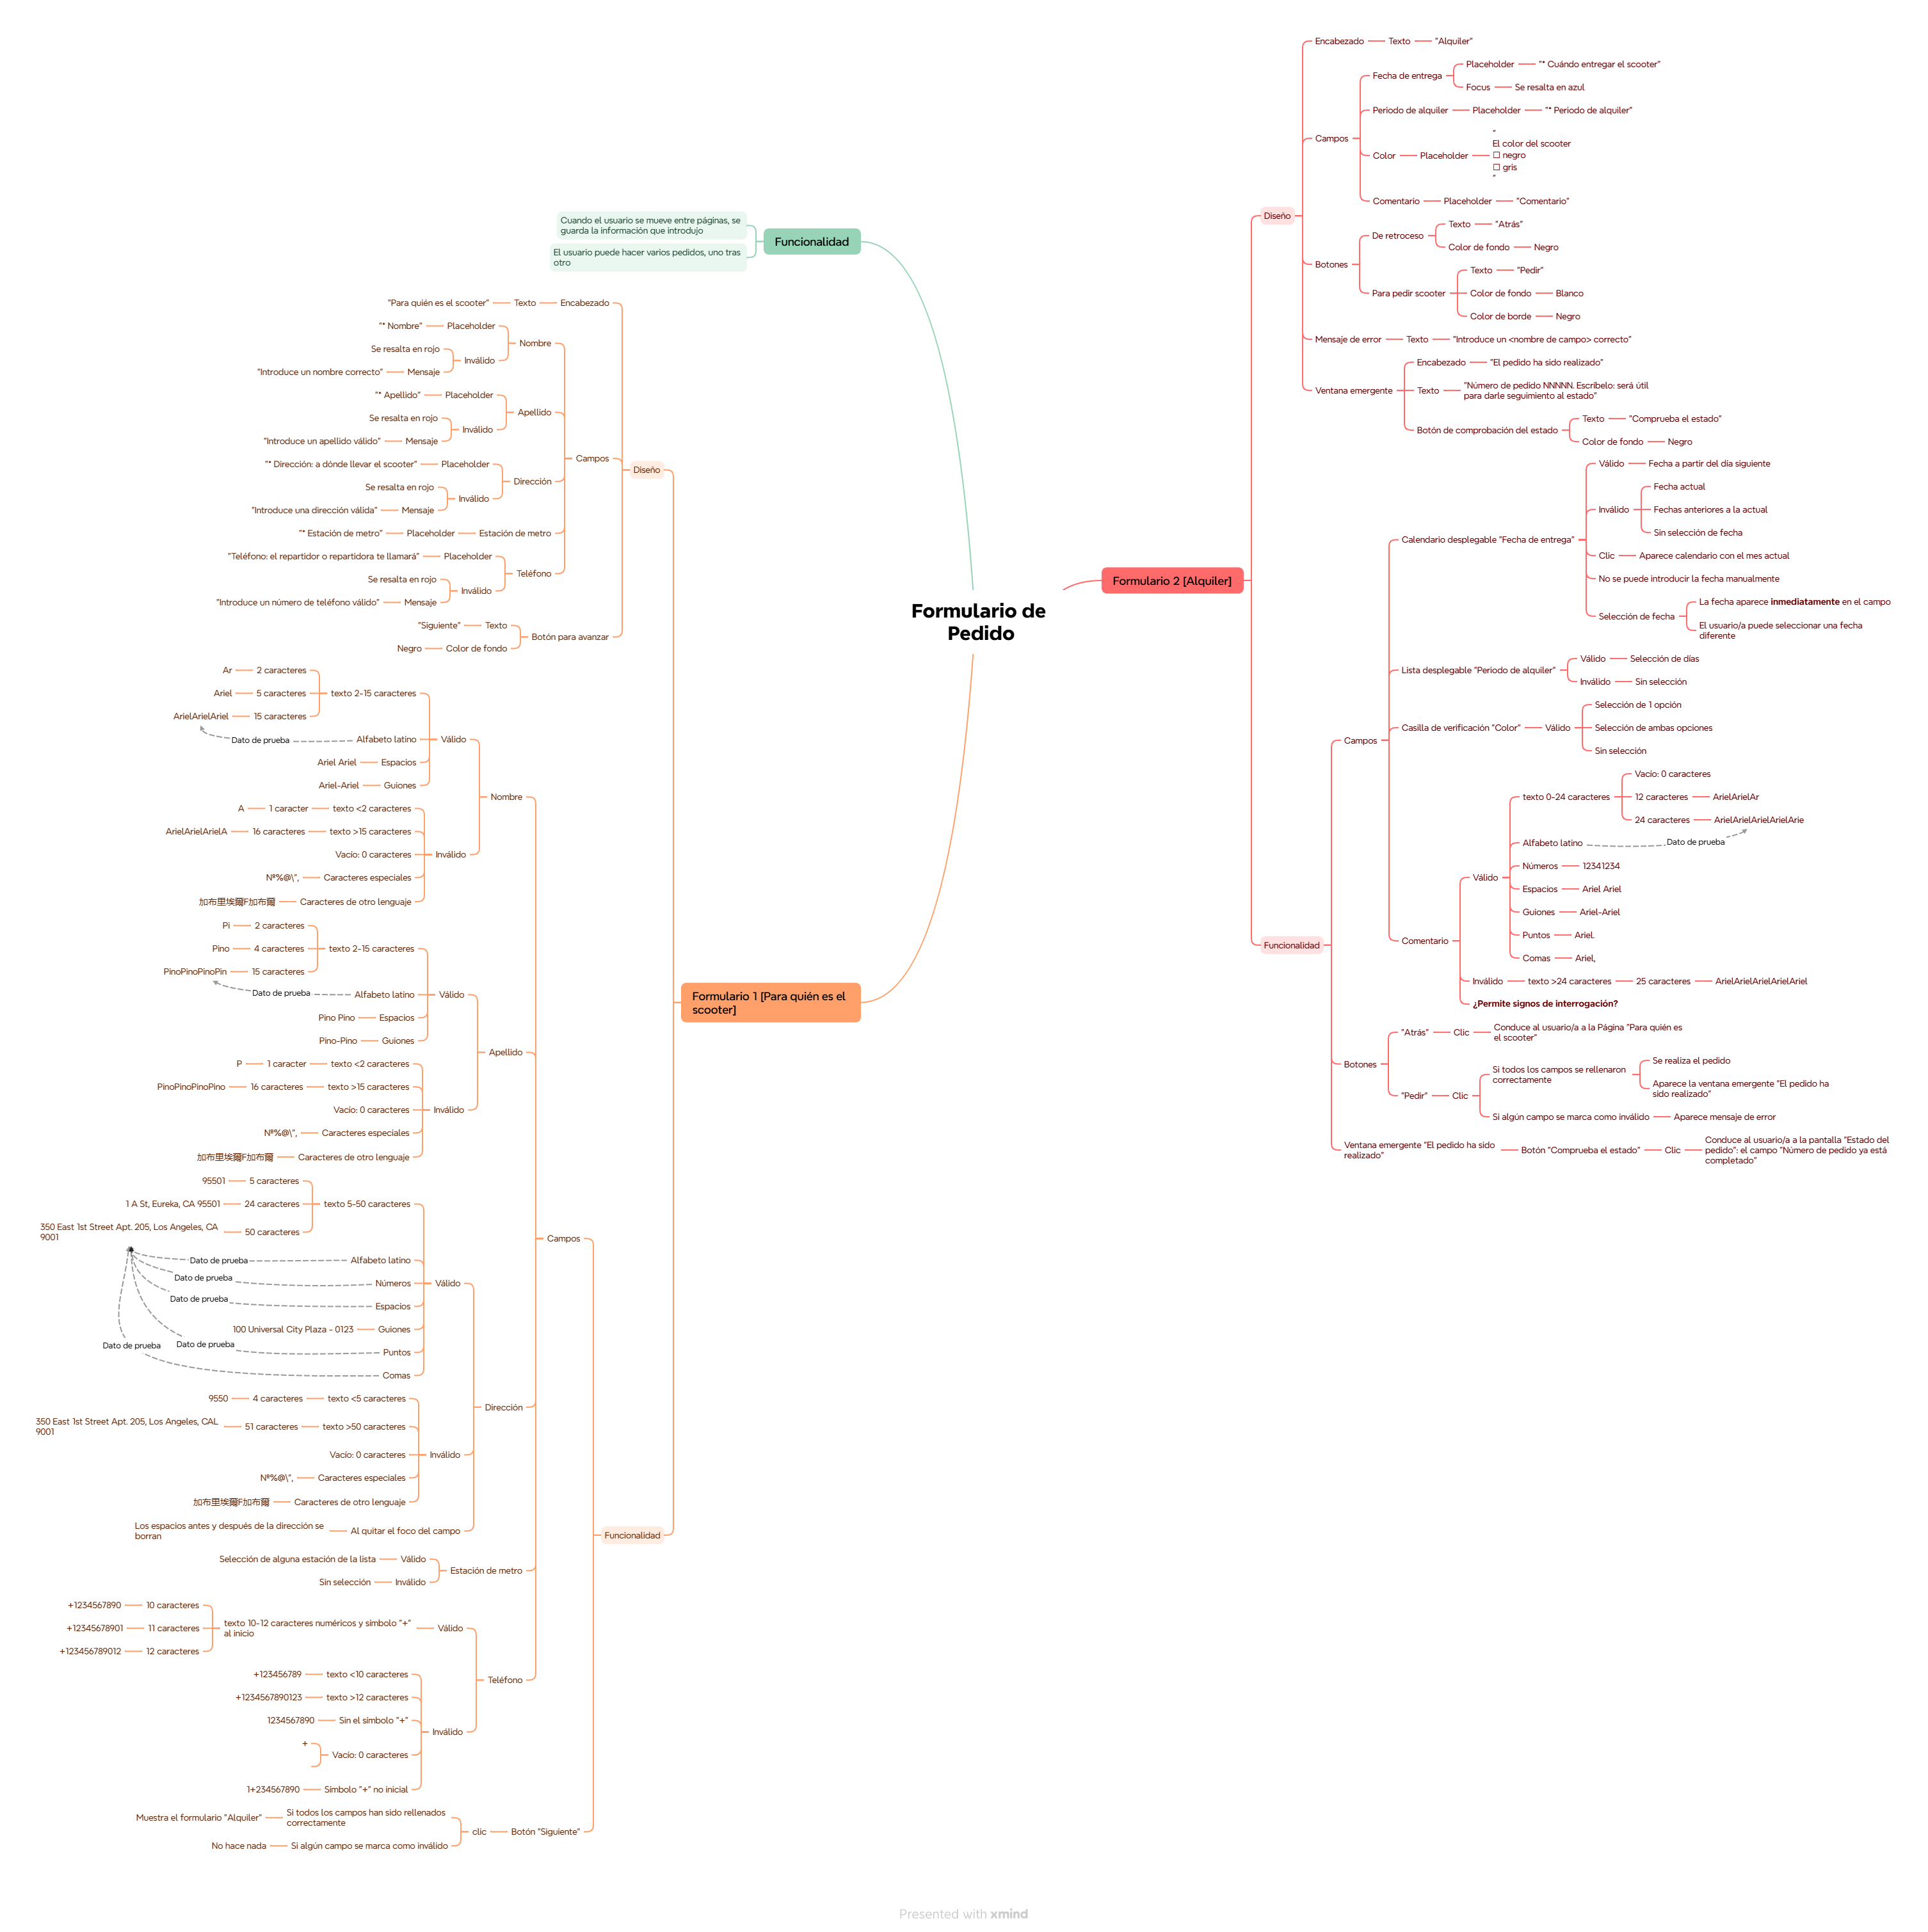
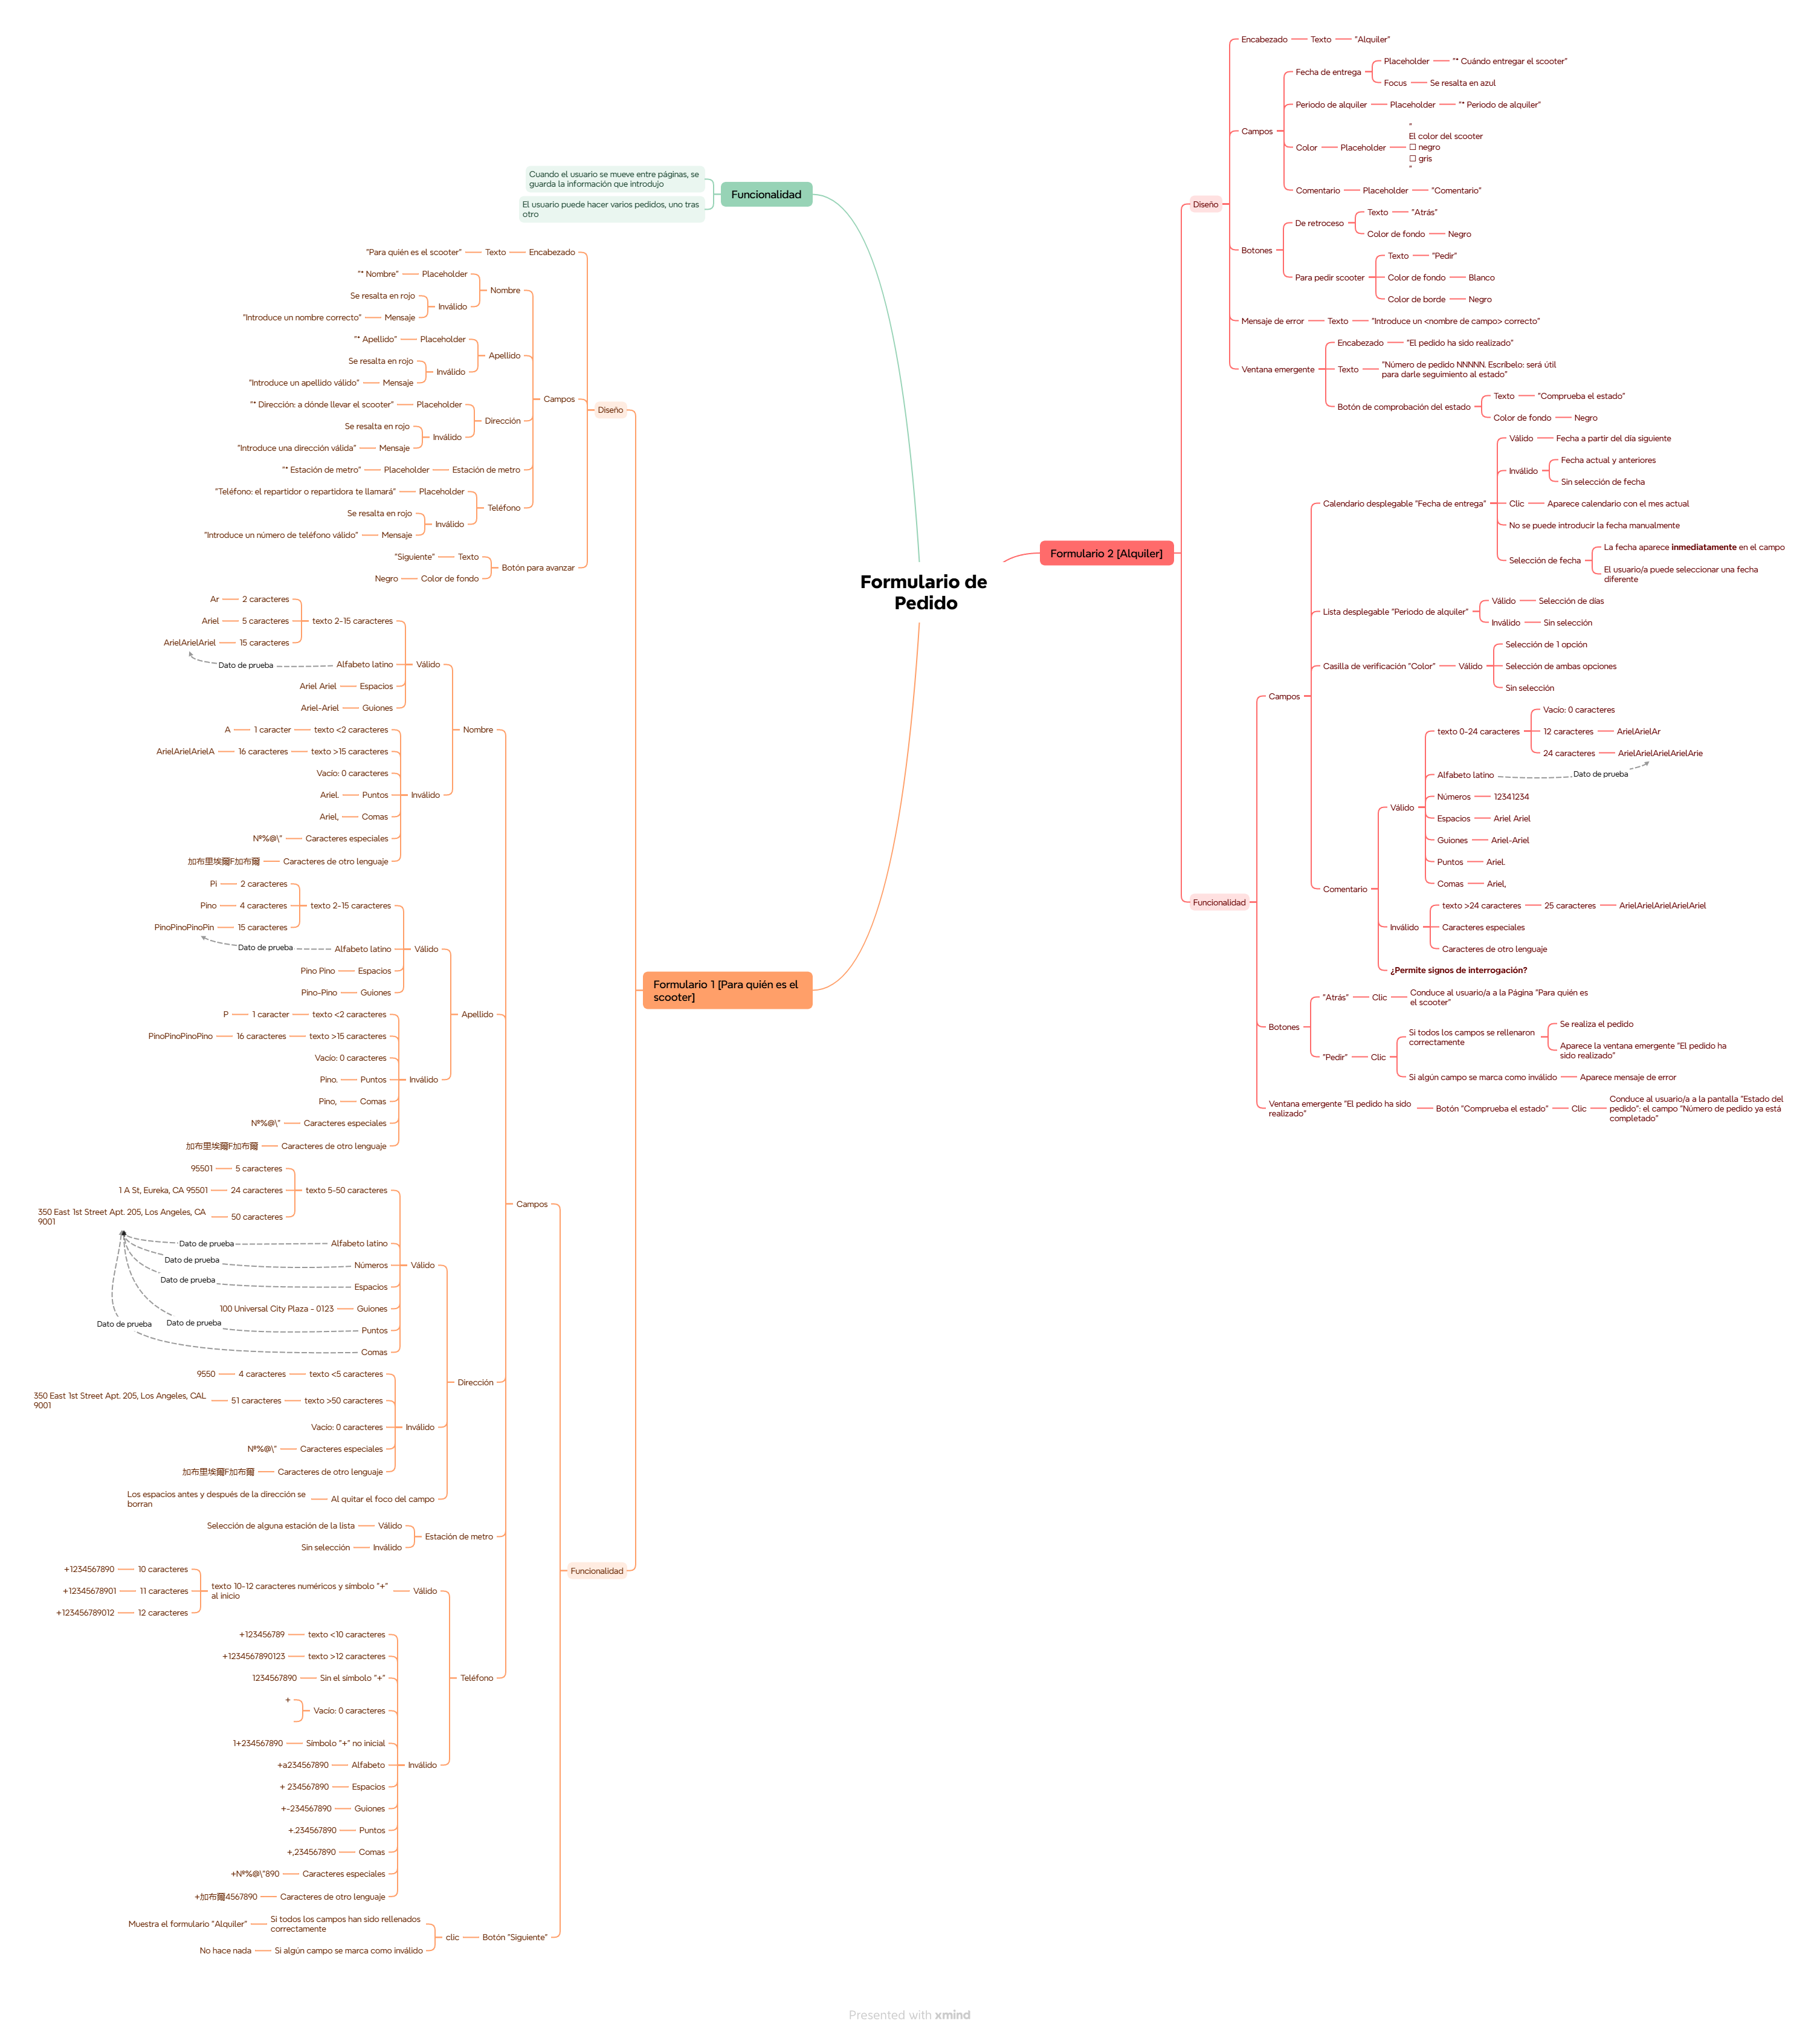
Add order form test data documentation

diff --git a/docs/test-planning/order-form-test-data.md b/docs/test-planning/order-form-test-data.md
@@ -1,0 +1,113 @@
+# Datos de Prueba - Formulario de Pedido
+
+Esta documentación usa particiones de equivalencia y análisis de valores límite para cubrir los escenarios más importantes del formulario de pedido. Cada campo se divide en clases válidas e inválidas, de modo que se seleccionan entradas representativas de cada partición. Además, se incluyen casos en los límites de las restricciones (por ejemplo, 2 y 15 caracteres en el nombre) para verificar el comportamiento en valores justo dentro y justo fuera de los límites.
+
+## Formulario "Para quién es el scooter"
+
+### Campo: Nombre
+| Clase | Datos de Prueba | 
+| :--- | :--- |
+| [Válida] Texto 2-15 caracteres | 2 - Ar<br>3 - Ari<br>5 - Ariel<br>14 - ArielArielArie<br>15 - ArielArielAriel |
+| [Válida] Alfabeto Latino | Ariel |
+| [Válida] Espacios | Ariel Ariel |
+| [Válida] Guiones | Ariel-Ariel |
+| [Inválida] Texto <2 caracteres | 1 - A |
+| [Inválida] Texto >15 caracteres | 16 - ArielArielArielA<br>17 - ArielArielArielAr<br>18 - ArielArielArielAri |
+| [Inválida] Vacío: 0 caracteres |
+| [Inválida] Puntos | Ariel. |
+| [Inválida] Comas | Ariel, |
+| [Inválida] Caracteres especiales | №%@\" |
+| [Inválida] Caracteres de otro lenguaje | 加布里埃爾F加布爾 |
+
+### Campo: Apellido
+| Clase | Datos de Prueba | 
+| :--- | :--- |
+| [Válida] Texto 2-15 caracteres | 2 - Pi<br>3 - Pin<br>5 - PinoP<br>14 - PinoPinoPinoPin<br>15 - PinoPinoPinoPinoPin |
+| [Válida] Alfabeto Latino | Pino |
+| [Válida] Espacios | Pino Pino |
+| [Válida] Guiones | Pino-Pino |
+| [Inválida] Texto <2 caracteres | 1 - P |
+| [Inválida] Texto >15 caracteres | 16 - PinoPinoPinoPino<br>17 - PinoPinoPinoPinoP<br>18 - PinoPinoPinoPinoPi |
+| [Inválida] Vacío: 0 caracteres |
+| [Inválida] Puntos | Pino. |
+| [Inválida] Comas | Pino, |
+| [Inválida] Caracteres especiales | №%@\" |
+| [Inválida] Caracteres de otro lenguaje | 加布里埃爾F加布爾 |
+
+### Campo: Dirección
+| Clase | Datos de Prueba | 
+| :--- | :--- |
+| [Válida] Texto 5-50 caracteres | 5 - 95501<br>6 - 955011<br>24 - 1 A St, Eureka, CA 95501<br>49 - 350 East 1st Street Apt 205, Los Angeles, CA 9001<br>50 - 350 East 1st Street Apt. 205, Los Angeles, CA 9001 |
+| [Válida] Alfabeto Latino | 350 East 1st Street Apt. 205, Los Angeles, CA 9001 |
+| [Válida] Números | 350 East 1st Street Apt. 205, Los Angeles, CA 9001 |
+| [Válida] Espacios | 350 East 1st Street Apt. 205, Los Angeles, CA 9001 |
+| [Válida] Guiones | 100 Universal City Plaza - 0123 |
+| [Válida] Puntos | 350 East 1st Street Apt. 205, Los Angeles, CA 9001 |
+| [Válida] Comas | 350 East 1st Street Apt. 205, Los Angeles, CA 9001 |
+| [Inválida] Texto <5 caracteres | 2 - 1s<br>3 - 1st<br>4 - 9550 |
+| [Inválida] Texto >50 caracteres | 51 - 350 East 1st Street Apt. 205, Los Angeles, CAL 9001<br>52 - 350 East 1st Street Apt. 205, Los Angeles, CAL<br>53 - 350 East 1st Street Apt. 2051, Los Angeles, CAL 90012 |
+| [Inválida] Vacío: 0 caracteres |
+| [Inválida] Caracteres especiales | №%@\" |
+| [Inválida] Caracteres de otro lenguaje | 加布里埃爾F加布爾 |
+
+### Campo: Estación de Metro
+| Clase | Datos de Prueba | 
+| :--- | :--- |
+| [Válida] Selección de alguna estación de la lista | 1st Street |
+| [Inválida] Sin selección |
+
+### Campo: Teléfono
+| Clase | Datos de Prueba | 
+| :--- | :--- |
+| [Válida] Texto 10-12 caracteres numéricos y símbolo "+" al inicio | 10 - [phone redacted]<br>11 - [phone redacted]<br>12 - [phone redacted] |
+| [Inválida] Texto <10 caracteres | 7 - [phone redacted]<br>8 - [phone redacted]<br>9 - [phone redacted]
+| [Inválida] Texto >12 caracteres | 13 - [phone redacted]<br>14 - [phone redacted]<br>15 - [phone redacted]
+| [Inválida] Sin el símbolo "+" | 1234567890
+| [Inválida] Vacío: 0 caracteres con signo "+" | +
+| [Inválida] Vacío: 0 caracteres sin signo "+" |
+| [Inválida] Símbolo "+" no inicial | 1[phone redacted] |
+| [Inválida] Alfabeto | +a234567890 |
+| [Inválida] Espacios | + 234567890 |
+| [Inválida] Guiones | +-234567890 |
+| [Inválida] Puntos | +.234567890 |
+| [Inválida] Comas | +,234567890 |
+| [Inválida] Caracteres especiales | +№%@\"890 |
+| [Inválida] Caracteres de otro lenguaje | +加布爾4567890 |
+
+---
+
+## Formulario "Alquiler"
+
+### Campo: Calendario Desplegable "Fecha de Entrega"
+| Clase | Datos de Prueba | 
+| :--- | :--- |
+| [Válida] Fecha a partir del día siguiente | Fecha día siguiente<br>Fecha 2 días después<br>Fecha 3 días después |
+| [Inválida] Fecha actual y anteriores | Fecha actual<br>Fecha de ayer<br>Fecha de 2 días antes
+| [Inválida] Sin selección | 
+
+### Campo: Lista Desplegable "Periodo de Alquiler"
+| Clase | Datos de Prueba | 
+| :--- | :--- |
+| [Válida] Selección de días de alquiler | un día |
+| [Inválida] Sin selección |
+
+### Campo: Casilla de Verificación "Color"
+| Clase | Datos de Prueba | 
+| :--- | :--- |
+| [Válida] Selección de 1 color | ✓ negro |
+| [Inválida] Selección de ambos colores | ✓ negro<br>✓ gris |
+| [Inválida] Sin selección |
+
+### Campo: Comentario
+| Clase | Datos de Prueba | 
+| :--- | :--- |
+| [Válida] Texto 0-24 caracteres | 0 caracteres<br>1 caracter - A<br>12 caracteres - ArielArielAr<br>23 caracteres - ArielArielArielArielAri<br>24 caracteres - ArielArielArielArielArie |
+| [Válida] Alfabeto latino | ArielArielArielArielArie |
+| [Válida] Números | 12341234 |
+| [Válida] Espacios | Ariel Ariel |
+| [Válida] Guiones | Ariel-Ariel |
+| [Válida] Puntos | Ariel. |
+| [Válida] Comas | Ariel, |
+| [Inválida] Texto 25 caracteres y más | 25 caracteres - ArielArielArielArielAriel<br>26 caracteres - ArielArielArielArielArielA<br>27 caracteres - ArielArielArielArielArielAr |
+| [Inválida] Caracteres especiales | №%@\" |
+| [Inválida] Caracteres de otro lenguaje | 加布里埃爾F加布爾 |

diff --git a/docs/testing/checklists/order-status-checklist.md b/docs/testing/checklists/order-status-checklist.md
@@ -4,7 +4,7 @@
 - [] Hacer clic en "Estado del pedido" en el encabezado muestra el campo "Número de pedido".
 - [] El campo "Número de pedido" acepta entrada de texto.
 - [] Presionar Enter con un número válido muestra la información del pedido.
-- [] Presionar Enter con un número inválido muestra el mensaje: "No existe tal pedido. ¿Seguro que ese es el número correcto?"
+- [] Presionar Enter con un número inválido muestra el mensaje: "No existe tal pedido. ¿Seguro que ese es el número correcto?".
 - [] Se puede introducir otro número de pedido después de consultar uno.
 
 ## Visualización de datos del pedido